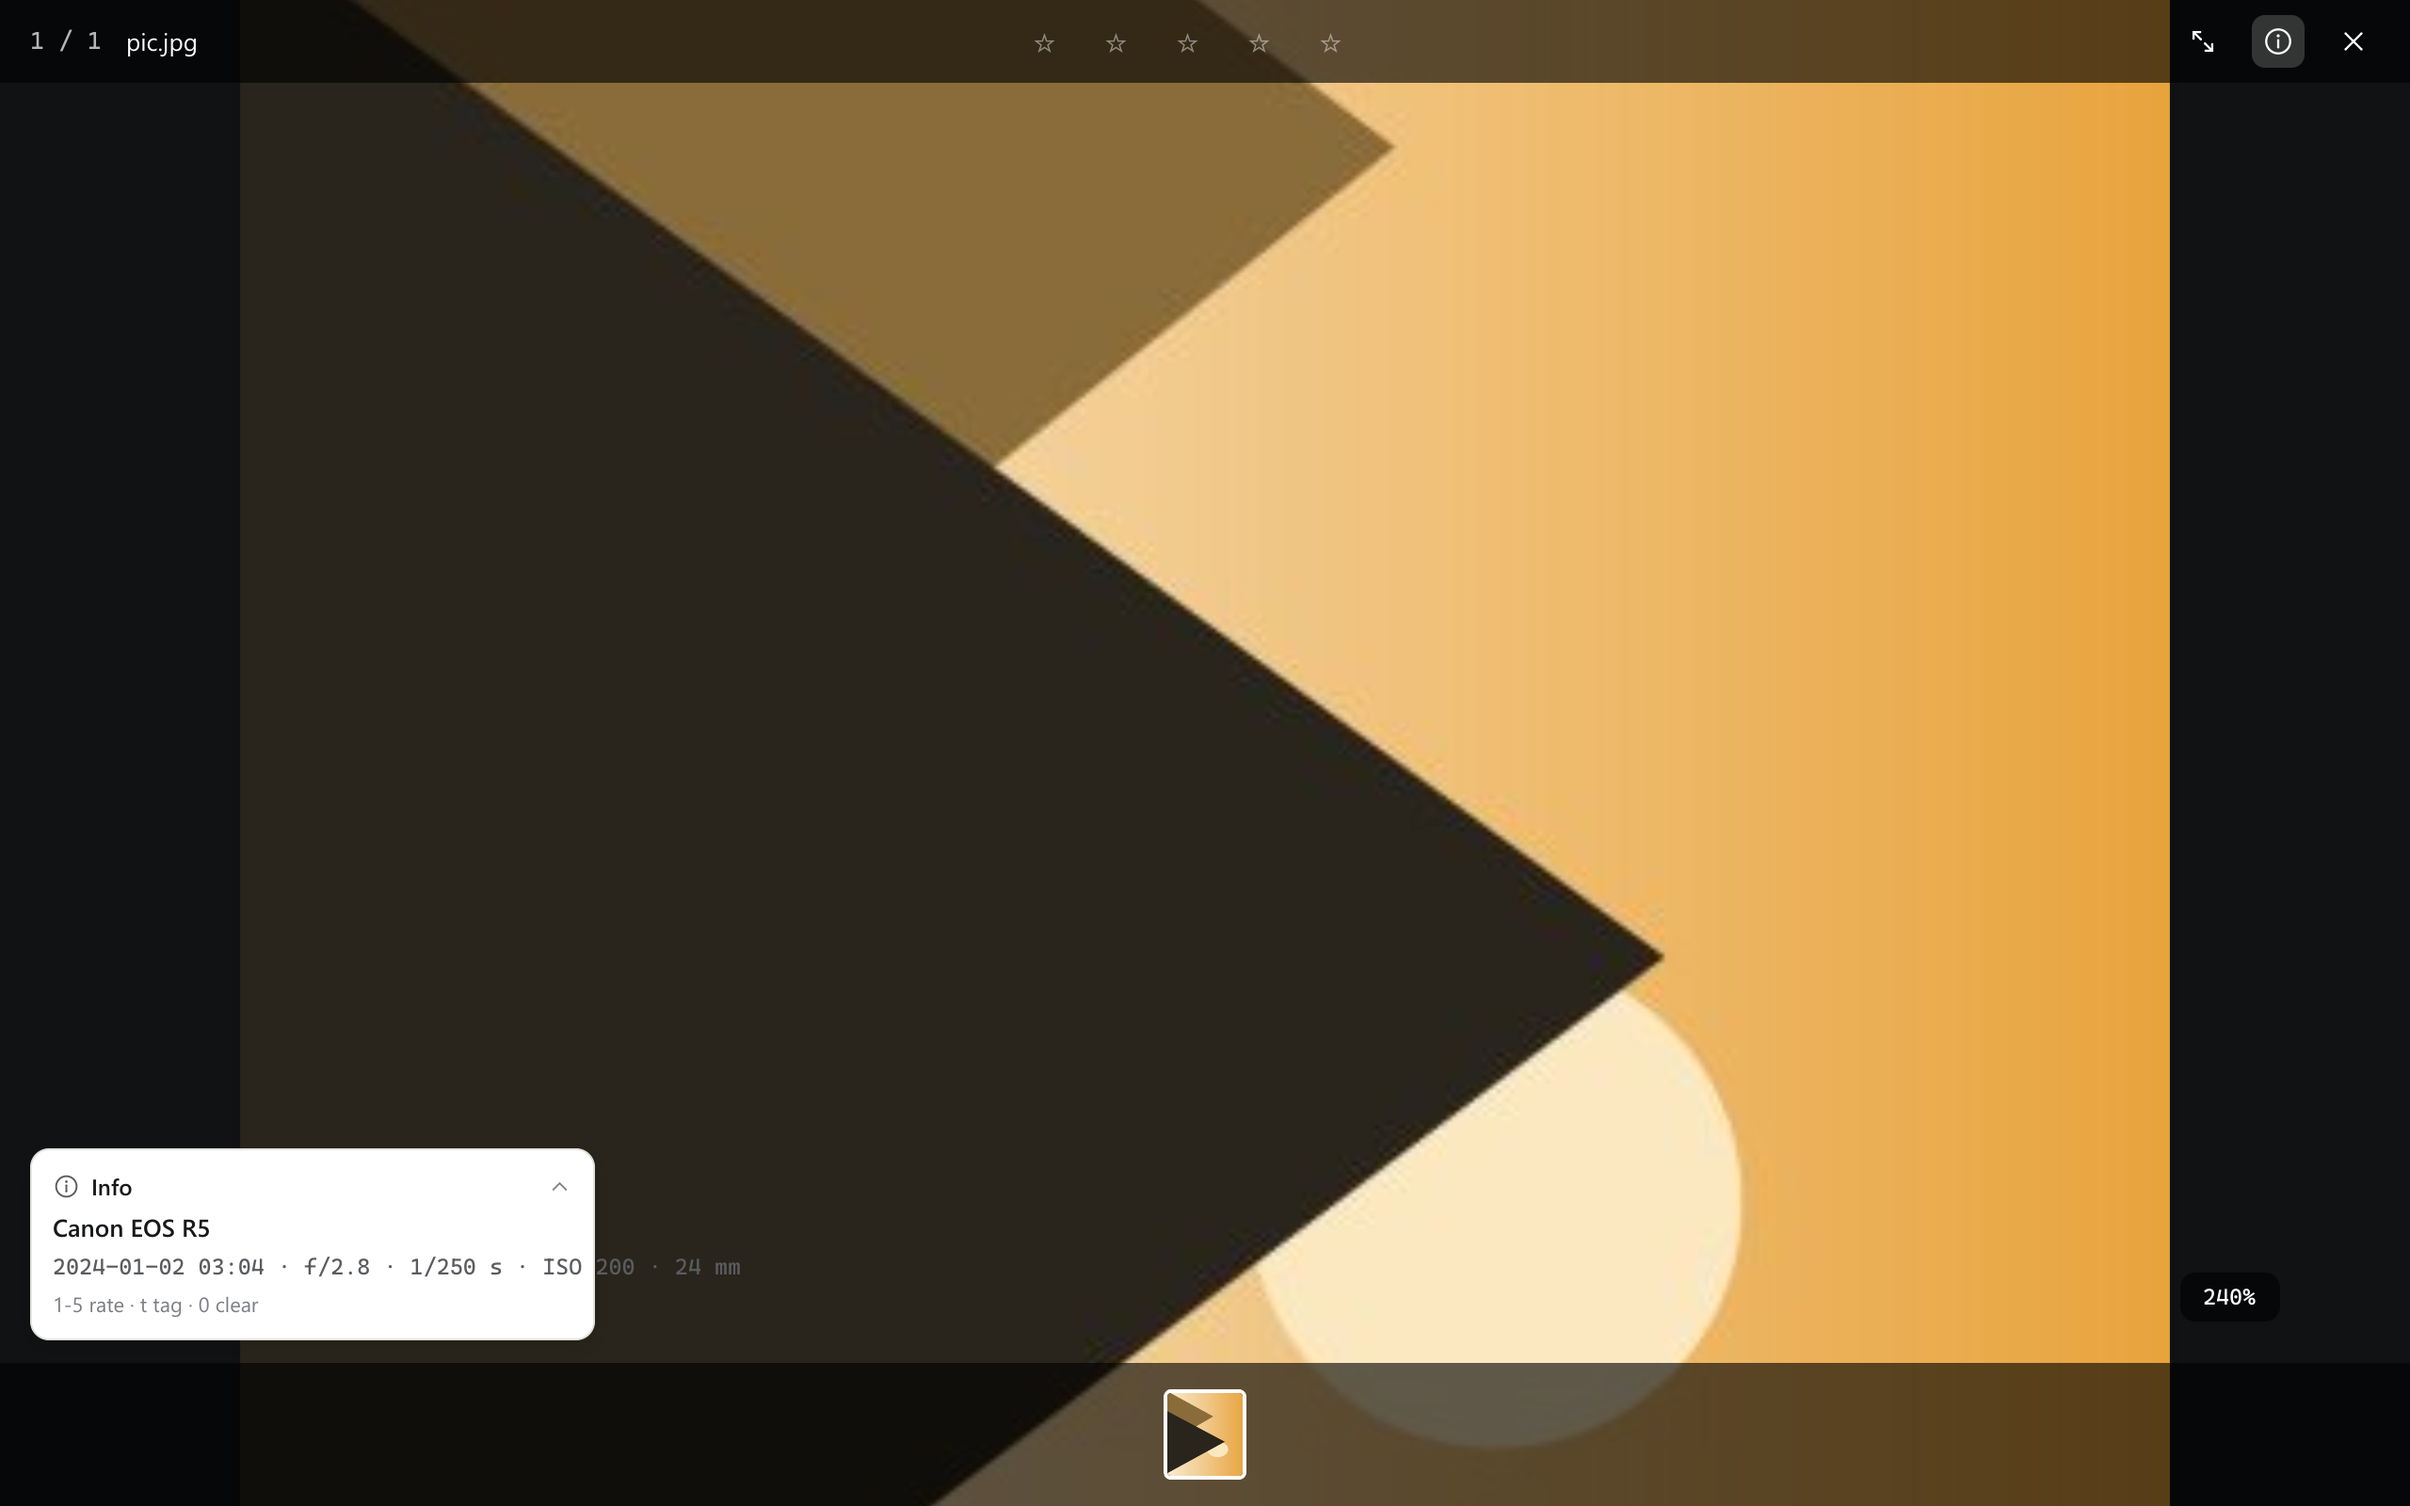
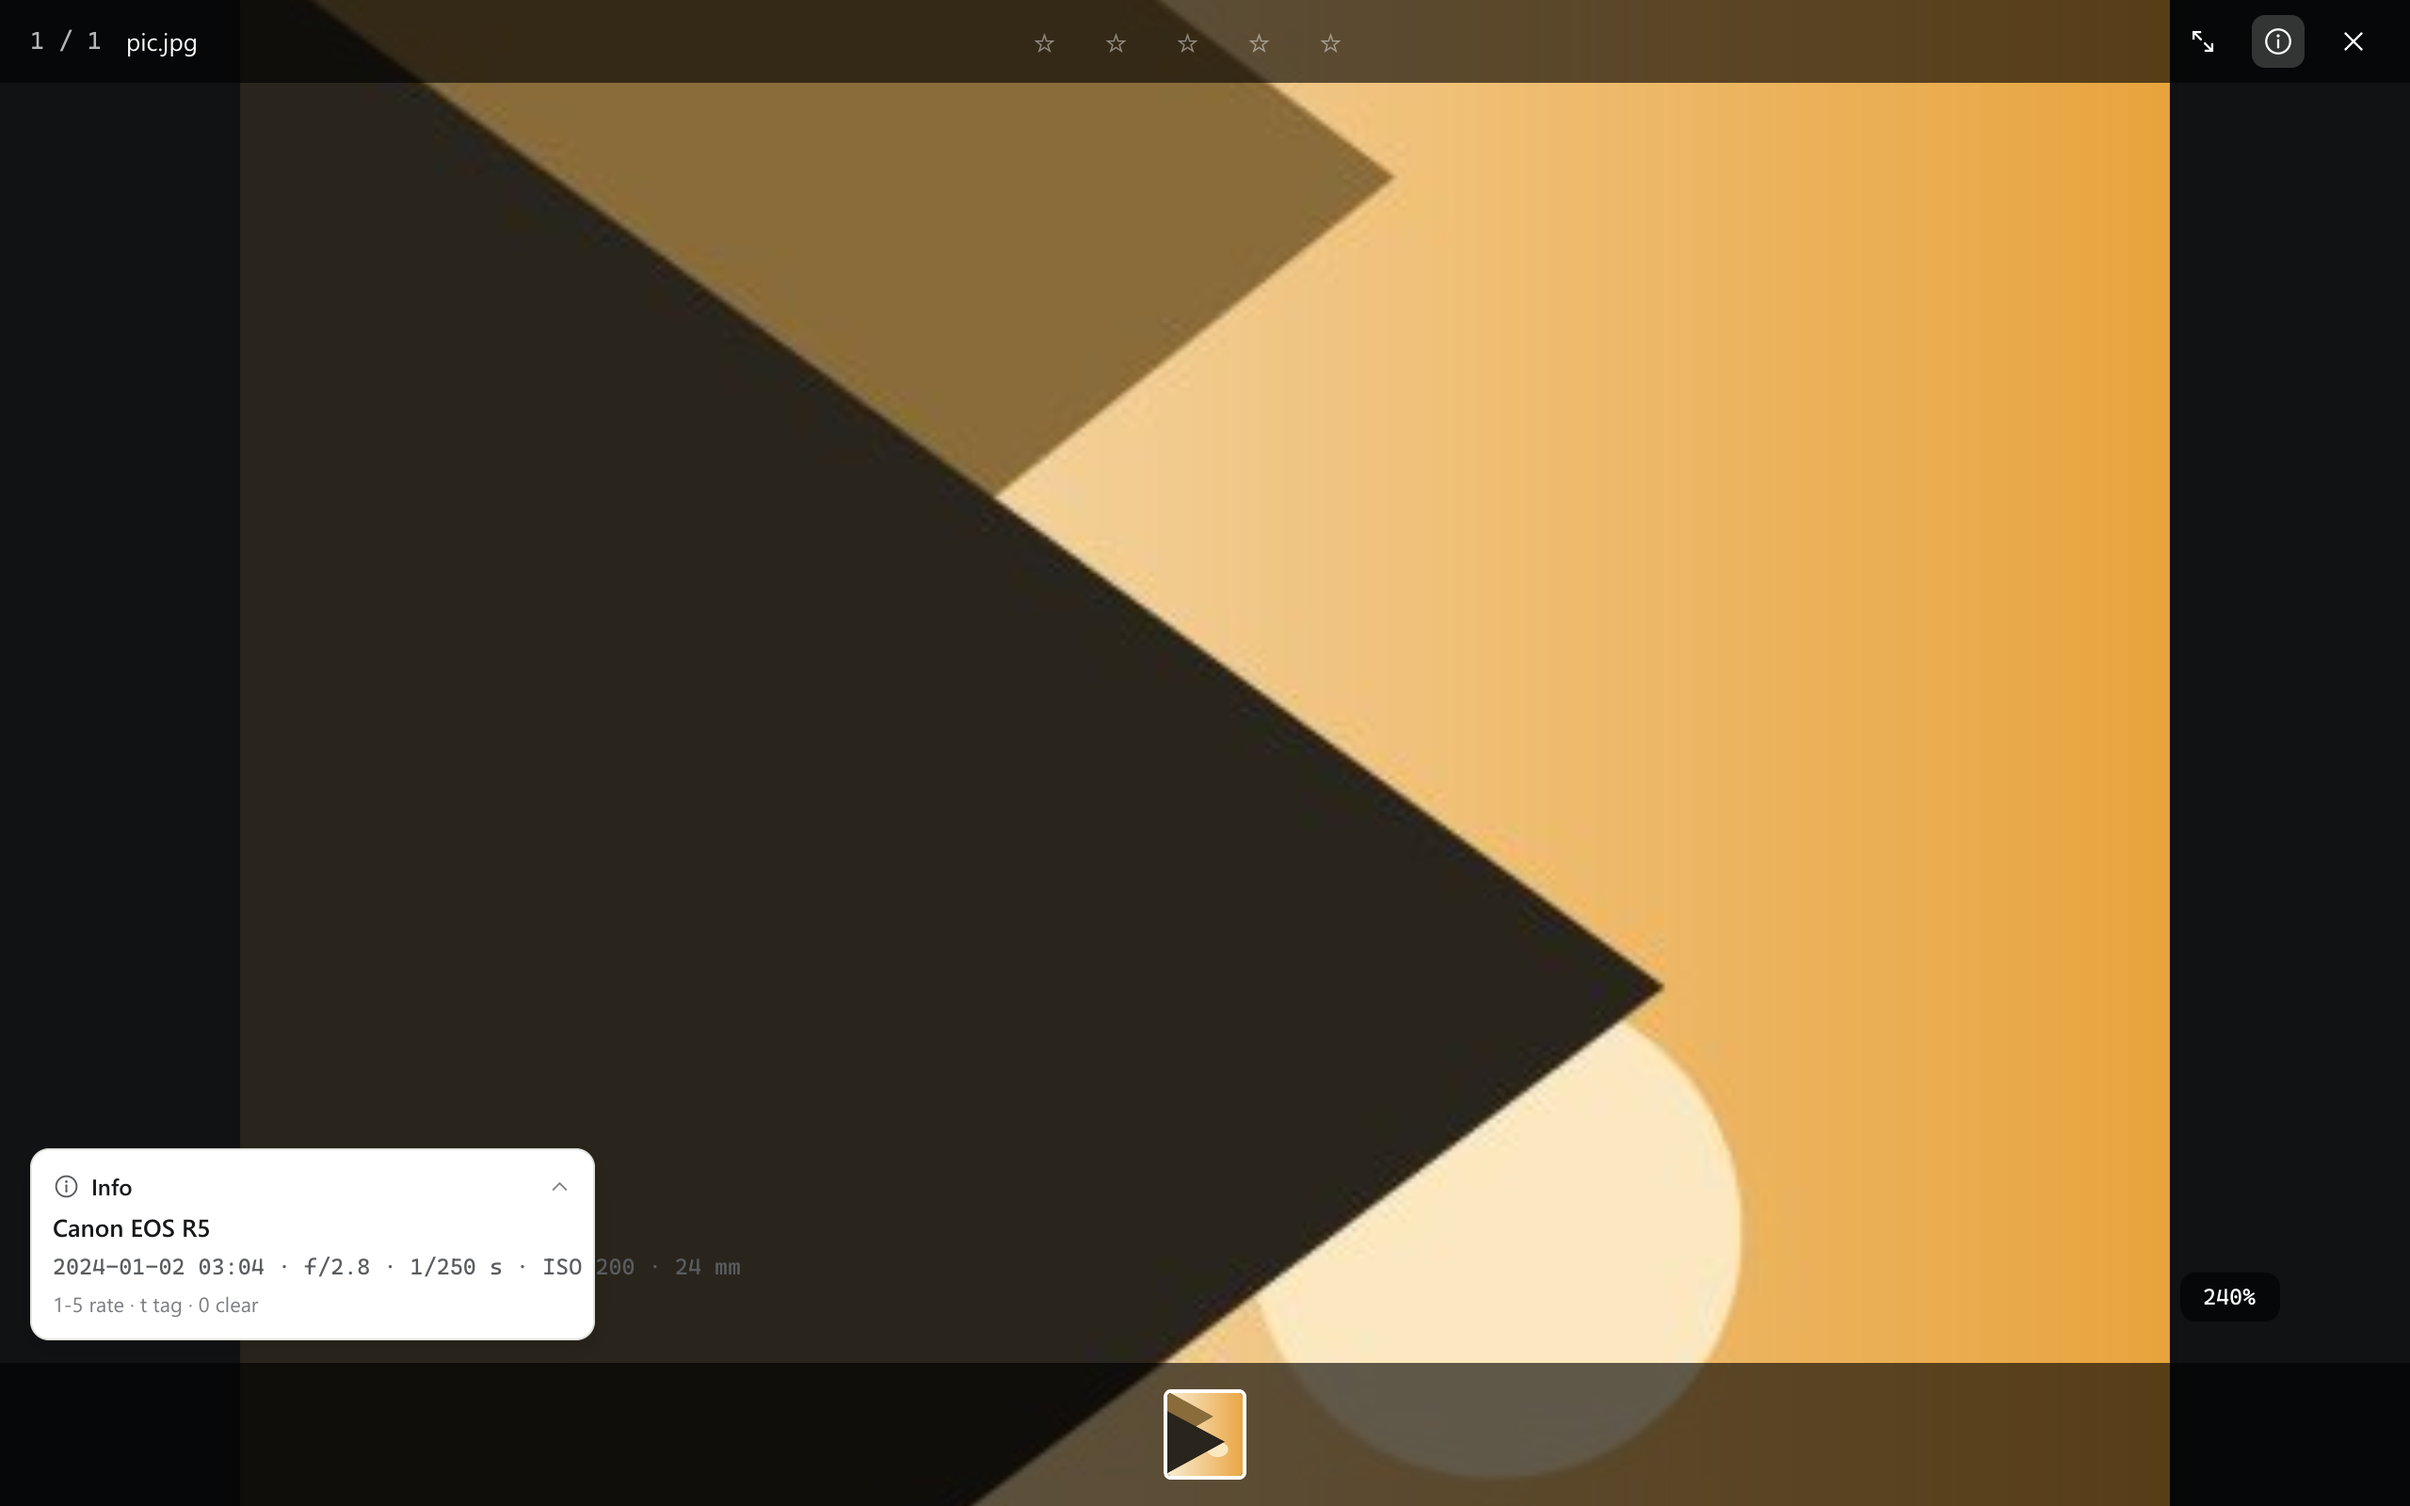
zoom: the wheel holds the point under the pointer, on every frame
Two things were wrong, and each one alone made the zoom drift.

1. The anchor was measured from the picture's left/top edge, not its
   centre. The pan offset is relative to the centred position, and that
   centre moves when the width changes, so the formula was short by half
   the size change: at 2x from a centred picture it pushed the image half
   its width to the left.
2. The pan was anchored against the *target* zoom while the frame drew
   the *eased* zoom, and pan and zoom eased independently. Two notches,
   or one notch during the easing, left the point under the pointer
   somewhere else -- and it drifted back as the easing caught up.

Now
- The wheel records the picture-space point under the pointer (`anchor`,
  0..1 of the picture) and the screen point it must stay under
  (`anchor_mouse`).
- Only the zoom is eased. Each frame the pan is derived from the zoom
  actually drawn and the anchor, so the point is exact on every frame,
  including between two notches.
- A picture smaller than the room is centred; one that overflows has its
  pan clamped so no empty edge shows.
- Dragging moves the picture and re-reads the anchor.

Tested: `the wheel zooms about the pointer, and keeps that point still`
checks the fraction under the pointer on 40 consecutive frames of the
easing, then through two notches fired in quick succession, then the
return to fit (pan back to 0). The previous code fails it.
[…]

diff --git a/docs/redesign/01-ux.md b/docs/redesign/01-ux.md
@@ -149,11 +149,25 @@
 
 | 输入 | 网格 | 大图 |
 |---|---|---|
-| 滚轮 / 两指 | 垂直滚动（惯性由平台给） | 缩放（锚定指针，1.15^notch，上限 8×） |
+| 滚轮 / 两指 | 垂直滚动（惯性由平台给） | 缩放（1.15^notch，上限 8×），以指针为锚 |
 | 拖动 | 空白：框选；图块上：单击/加选/连选 | 照片大于房间时平移；否则无 |
 | 双击 | 打开大图 | 适应 ⇄ 1:1 |
 | 悬停 | 图块立即出现 ⋯ chip 与文件名条（tooltip 另等 0.5s） | 顶部条与胶片条常驻 |
 | 指针光标 | 图块上 = 手形；导航栏右缘 = `resize_left_right` | 可拖动时 = 手形 |
+
+### 缩放的锚
+
+滚轮缩放不是“以窗口中心缩放”：指针下的那一点必须是**画面里**的同一个点，
+缩放前后都停在指针下。做法是：
+
+- 滚轮那一刻记住指针下的画面点（`anchor`，0..1 的画面坐标）与屏幕点（`anchor_mouse`）；
+- 每帧只缓动 **zoom**，`pan` 由这个锚点反解（`pan = anchor_mouse - 画面中心 - anchor × 尺寸`），
+  所以缓动的每一帧、以及连续两次滚轮之间，锚点都不漂——这正是之前的 bug：
+  pan 与 zoom 各自缓动、且 pan 用目标 zoom 反解，中途就错位了；
+- 画面比房间小时强制居中（不留空边）；比房间大时 pan 被夹在溢出的范围内，
+  所以贴边时锚点让位于“不露底”。
+
+拖动平移时锚点跟着手走：平移量加到 pan 上，再把新的指针下画面点写回 `anchor`。
 
 ## 7. 流程分镜
 

diff --git a/docs/redesign/04-history.md b/docs/redesign/04-history.md
@@ -48,6 +48,8 @@
 - 设置：页脚 `⌘/ Keys` 入口。
 - 键盘一览：从一坨等宽文本改成两列表格——键在左（mono、右对齐），动作在右，按四组排；
   Windows/Linux 上 Backspace 记为 `Del`（mono 字体没有 ⌫）。
+- 大图：滚轮缩放改为以指针为锚（`anchor` + 每帧反解 pan）；之前 pan 与 zoom
+  分别缓动、且按目标 zoom 反解，连续滚轮或在缓动中滚轮时锚点会漂。
 - 大图：房间固定为深色（`room`，亮房 `#111214`），照片始终在同一个中性深底上判断；
   等待/失败的文字改用 `room_muted`，不再借用主题的次要色。
 
@@ -71,7 +73,7 @@
 
 ## 五、验证方式
 
-- `zig build test`：109 个测试，覆盖行为（断言矩形或状态，不只断言文字存在）。
+- `zig build test`：110 个测试，覆盖行为（断言矩形或状态，不只断言文字存在）。
 - `docs/redesign/shots/`：19 张状态快照，由 `tests_shots.zig` 与 `tests_meta.zig`
   渲染，`src/shots.zig` 压缩后写入。
 - 界面的旧样子见 `git log`（重新设计之前的琥珀方案没有保留文档，也不需要）。

diff --git a/docs/redesign/02-visual.md b/docs/redesign/02-visual.md
@@ -230,7 +230,7 @@
 | 测量中的骨架墙 | 静态 | 一墙同时呼吸会闪 |
 | 布局锁定 | 立即换整块 | 重排不做动画：照片在眼皮底下移动是最坏的动效 |
 | **网格滚动** | **不动画** | 滚动必须跟手 |
-| **大图缩放/平移** | `c.animate`，速度 12 | 已按指针锚定 |
+| **大图缩放** | 只缓动 zoom（`c.animate`，速度 12） | pan 由锚点反解，每帧一致；平移拖动跟手 |
 | 滚动条 | nanoui 的滚动容器自带（右缘 4pt，`muted` 50%） | 应用不自绘 |
 | toast | kit 默认进出 | 自动消失由 `kit.Toaster` 定 |
 | 全屏的 chrome | 0.14s 渐隐，fit 同一值跟随 | 照片随条一起长大，不跳；减少动效时直接换 |
